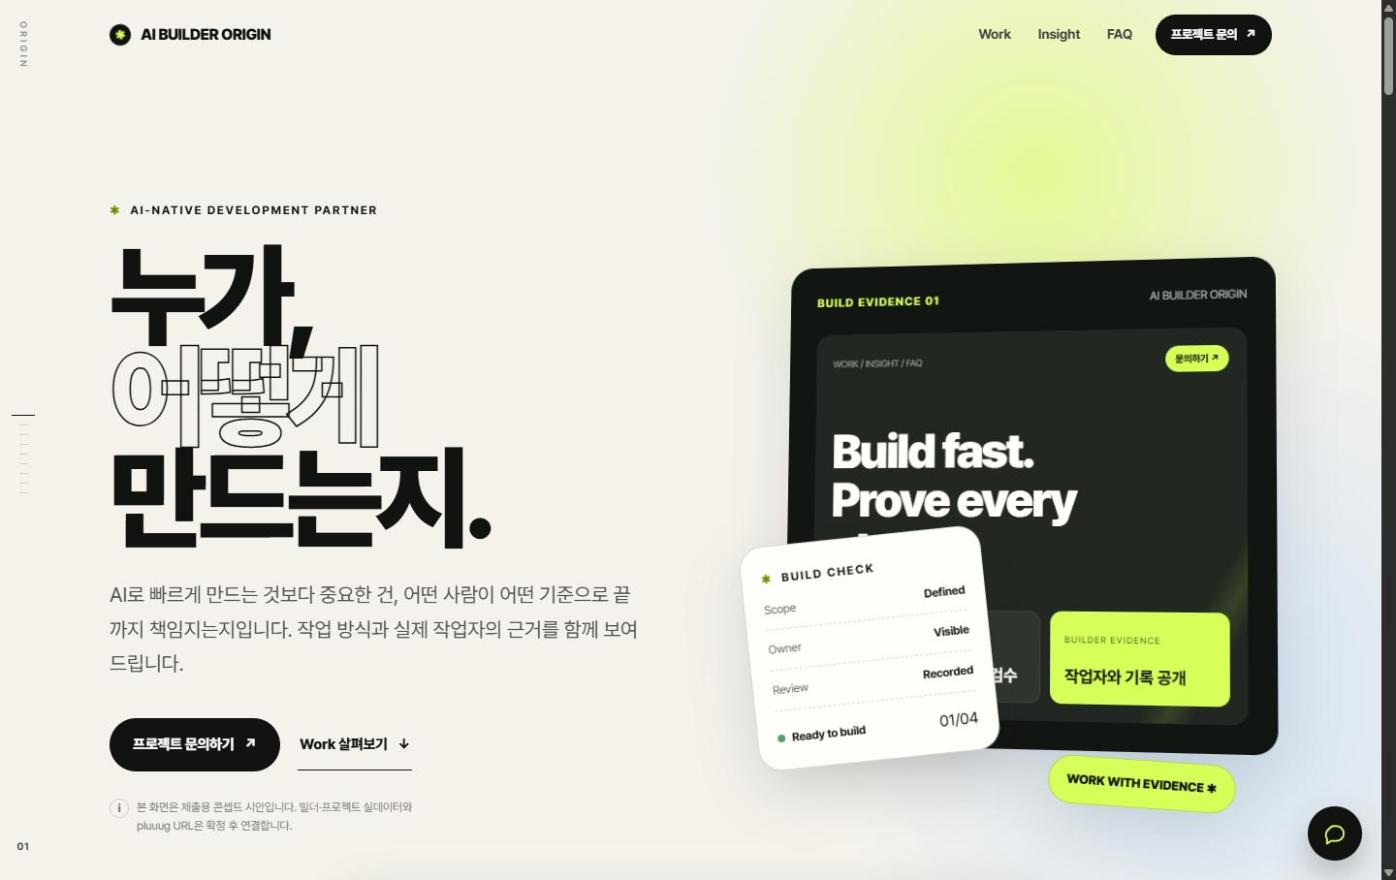
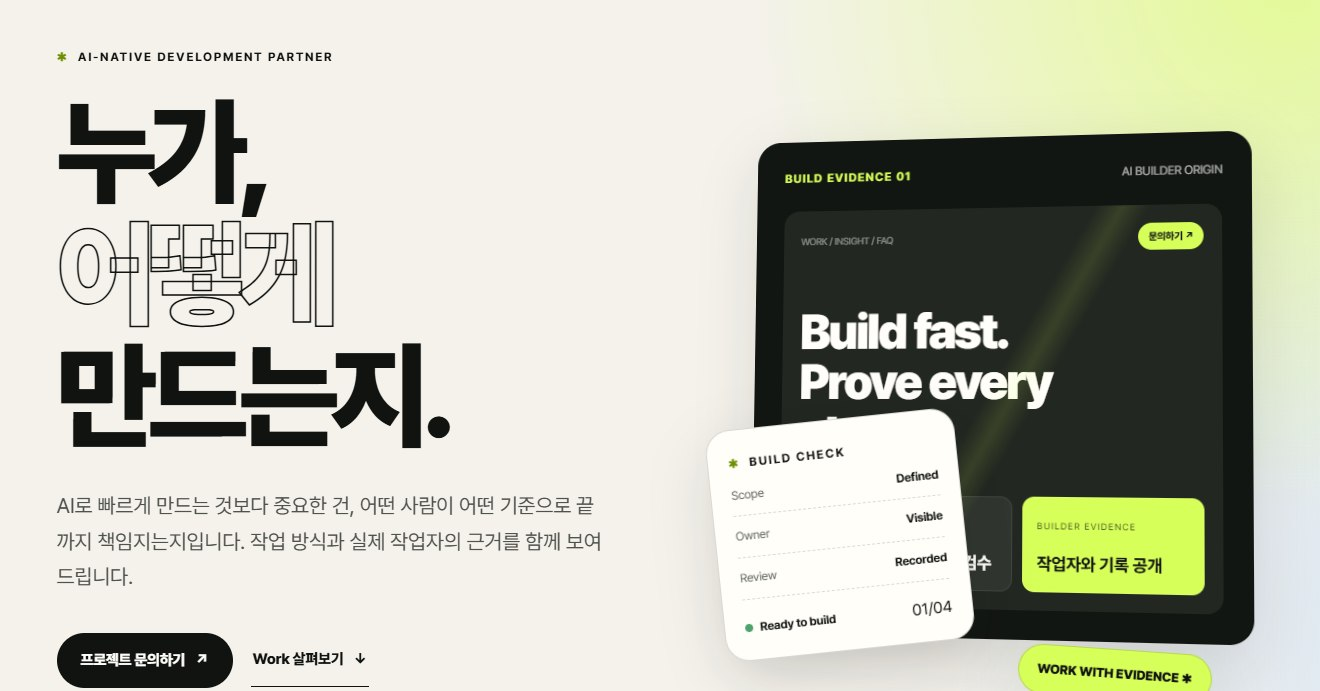
chore(seo): og-cover 를 h1 수정 후 화면으로 다시 만듦
기존 og-cover 는 h1 세 줄이 겹친 상태로 찍혀 있었다. 링크 미리보기가
그 화면으로 도는 건 곤란해서 교체했다.

콘텐츠 영역만 잘라 1320x691 (1.91:1) 로 맞췄다 — og 카드 권장 비율이다.
메타의 width/height 도 실제 파일에 맞춰 갱신했다.

diff --git a/AI_Builder_Origin_v3.html b/AI_Builder_Origin_v3.html
@@ -15,8 +15,8 @@
      TODO(미확정): 도메인 확정 시 절대 URL 로 바꾸고 og:url 을 추가한다.
      상대 경로는 크롤러에 따라 해석하지 못한다. PRD §12 🔴 -->
 <meta property="og:image" content="og-cover.jpg">
-<meta property="og:image:width" content="1396">
-<meta property="og:image:height" content="880">
+<meta property="og:image:width" content="1320">
+<meta property="og:image:height" content="691">
 <meta property="og:image:alt" content="AI Builder Origin 시안 히어로 화면">
 <meta name="twitter:card" content="summary_large_image">
 
